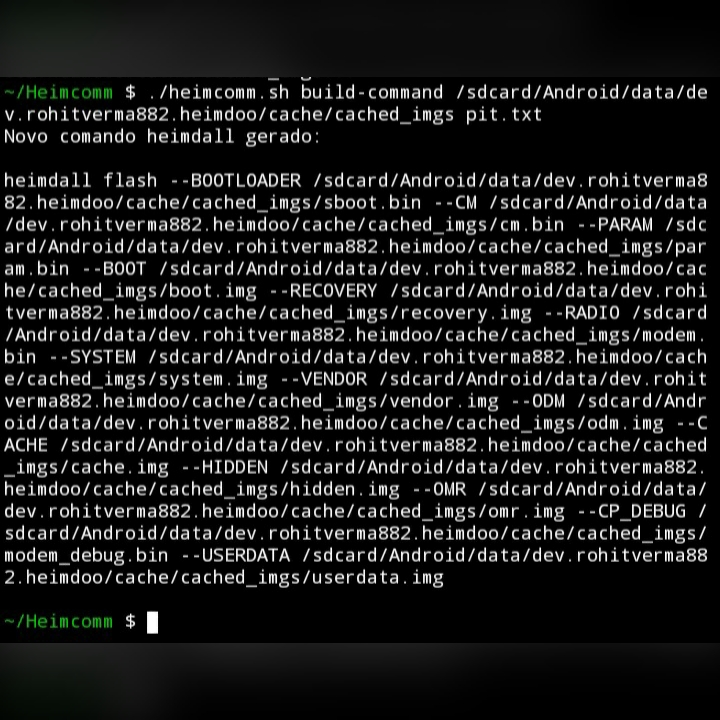
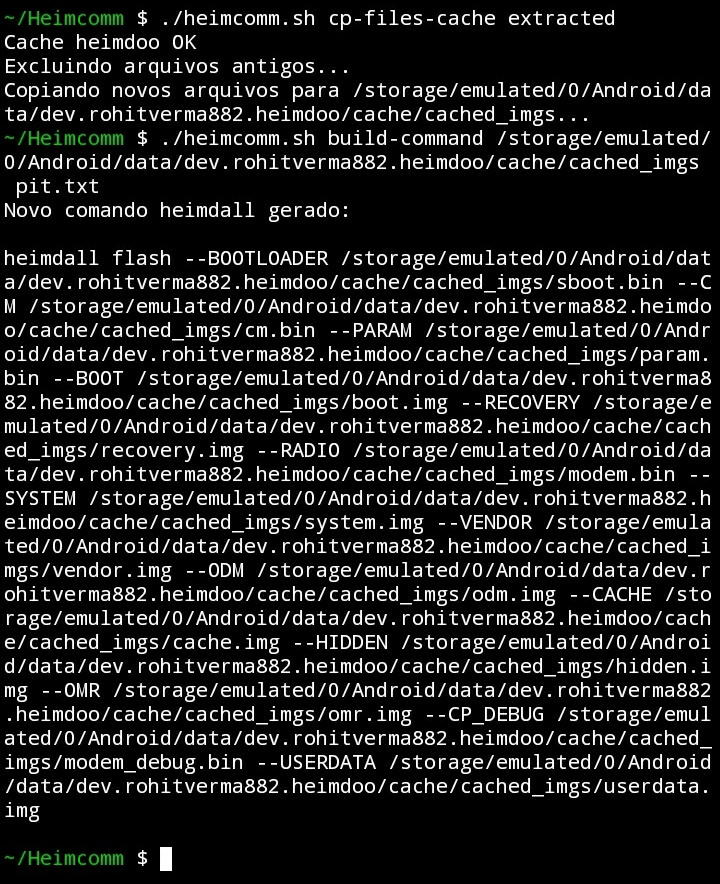
Arquivos atualizados

diff --git a/README.md b/README.md
@@ -24,10 +24,7 @@ Gerar comando para `heimdall no pc`:
 > [!NOTE]
 Apenas para android Termux: *Pra que a pasta cache do aplicativo `heimdoo` seja acessível, precisamos abrir o aplicativo e selecionar um arquivo pelo menos uma vez pra que o app crie a pasta cache pra utilização no app.*
 
-Copiando arquivos para a pasta cache do `heimdoo app` *Apenas para android TERMUX*:
-![Heimdoo app](https://github.com/Olliv3r/Heimcomm/blob/main/media/cp.jpg)
-
-Gerar comando para android com o `heimdoo app`:
+Copiando arquivos para a pasta cache do `heimdoo app` *Apenas para android TERMUX* e Gerando comando para rodar no `heimdoo app`:
 ![Copiar para cache Heimdoo](https://github.com/Olliv3r/Heimcomm/blob/main/media/android.jpg)
 
 Fontes importantes:
